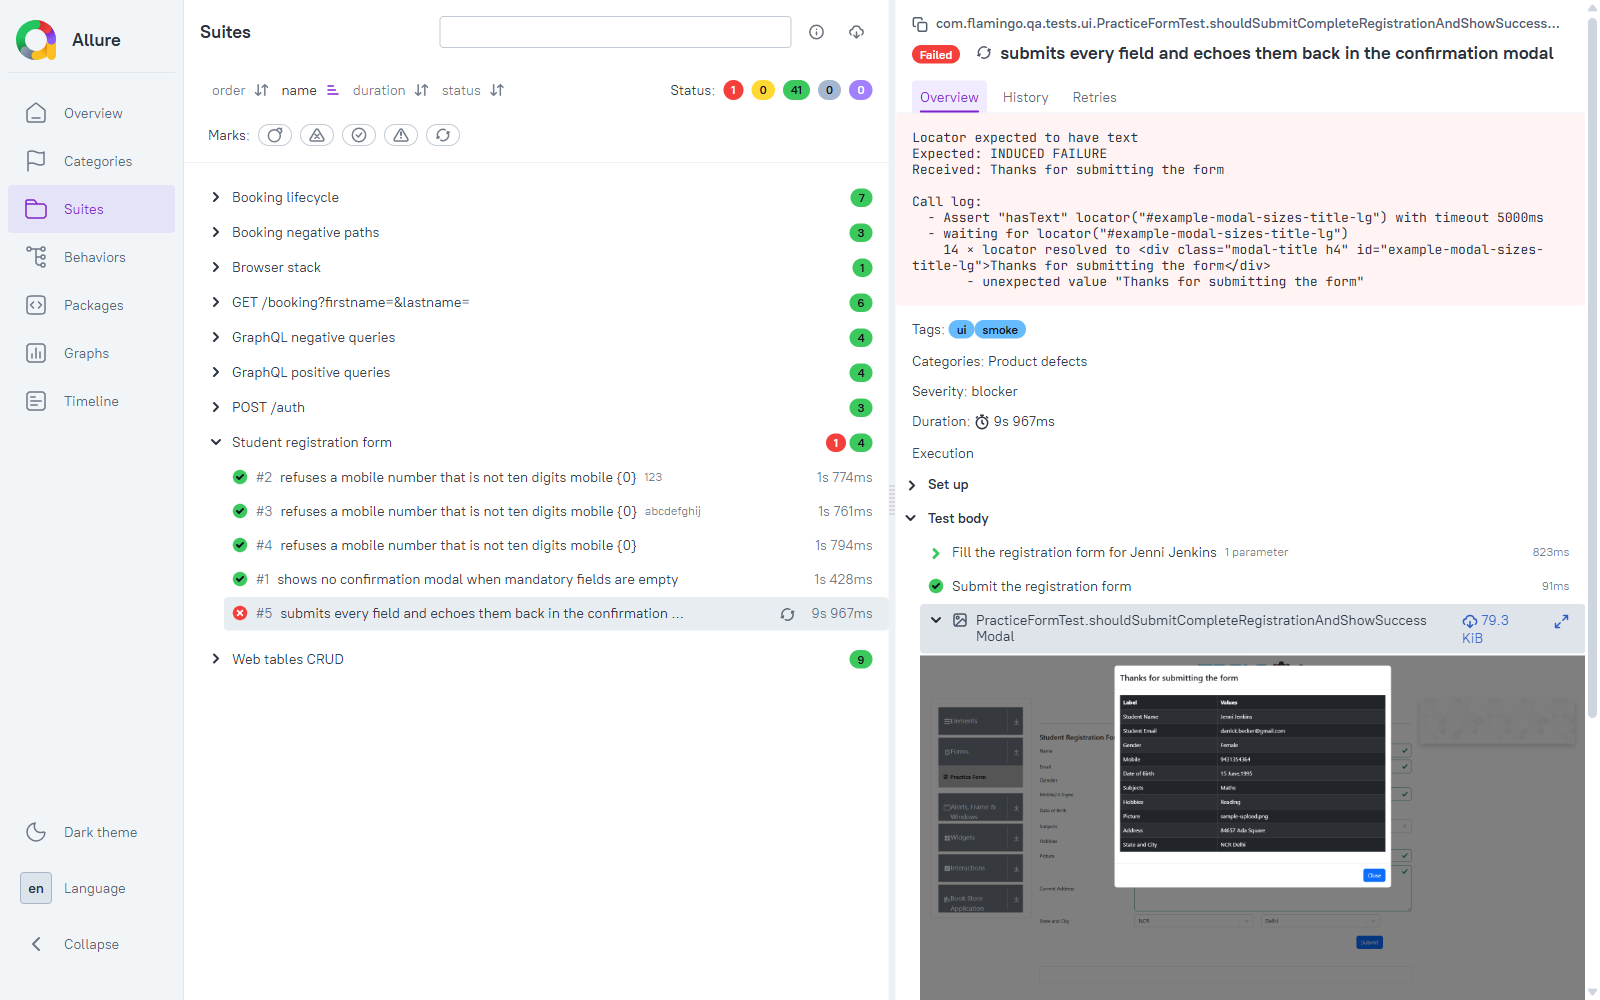
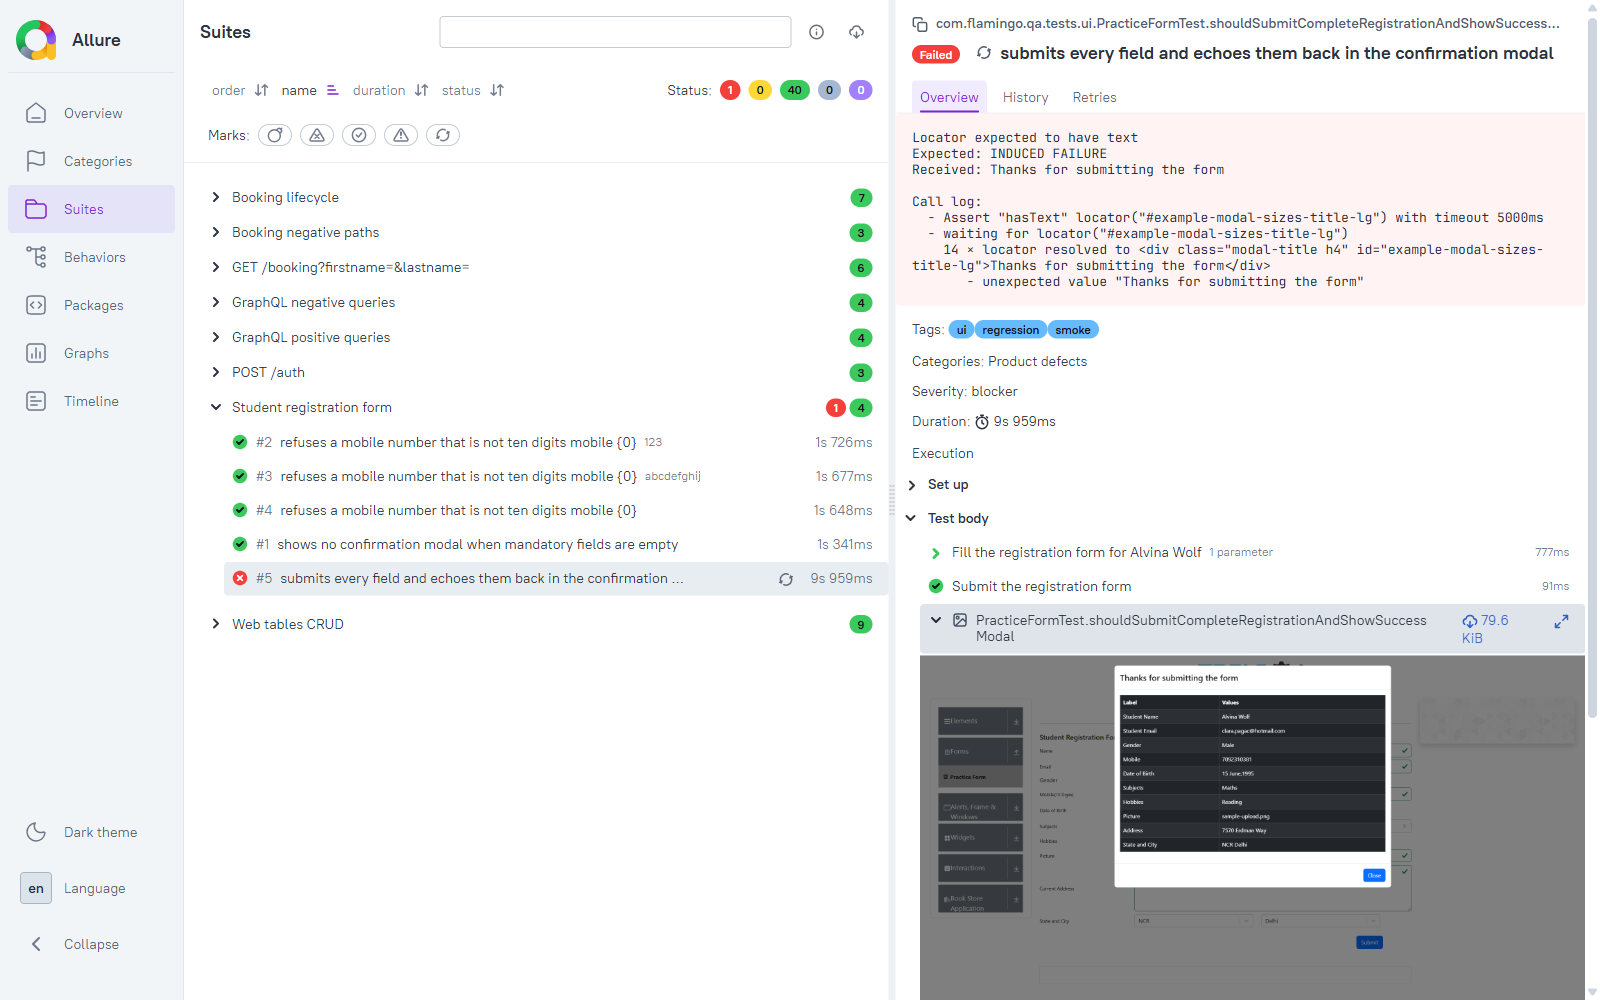
test(ui): drop the redundant UI framework smoke test
UiFrameworkSmokeTest was the Phase 6 seed: it proved the browser stack
reached DemoQA and rendered the form back when no real UI test existed
to prove it. PracticeFormTest now navigates to that same page in its
@BeforeEach and asserts against its fields in every test, so the smoke
test asserted nothing the suite did not already cover, on a page it was
already loading.

PracticeFormPage#heading went with it — the smoke test was its only
caller, and a locator kept for nobody is the same dead weight.

Counts move accordingly: 41 tests total, ui 14, smoke 8, and
"smoke | graphql" 14. api 27, graphql 8 and "regression & !ui" 27 are
unchanged. README and plan §3.9/§9/§10 updated to match, all re-measured
rather than adjusted by arithmetic.

The three report screenshots were regenerated: they showed 42 cases and
a "Browser stack" suite that no longer exists, and would have
contradicted the README. The failure capture now also shows the
regression tag on the test.

diff --git a/src/main/java/com/flamingo/qa/ui/pages/PracticeFormPage.java b/src/main/java/com/flamingo/qa/ui/pages/PracticeFormPage.java
@@ -19,7 +19,6 @@ public class PracticeFormPage extends BasePage {
     private static final DateTimeFormatter MONTH = DateTimeFormatter.ofPattern("MMMM", Locale.ENGLISH);
     private static final Locator.GetByTextOptions EXACT = new Locator.GetByTextOptions().setExact(true);
 
-    private final Locator heading = page.getByText("Student Registration Form");
     private final Locator userForm = page.locator("#userForm");
     private final Locator invalidFields = page.locator("#userForm input:invalid");
     private final Locator firstName = page.locator("#firstName");

diff --git a/IMPLEMENTATION_PLAN.md b/IMPLEMENTATION_PLAN.md
@@ -13,14 +13,14 @@
 >
 > **Phases 0–9 are COMPLETE**, on the `spribe_api_test` / `avenga-api-test` architecture
 > (§3.2). API work is done (19 REST + 8 GraphQL, against minimums of 3 and 5) and the UI
-> suite is in: `-Dgroups=ui` → **15 green headless and headed**, covering the practice form
+> suite is in: `-Dgroups=ui` → **14 green headless and headed**, covering the practice form
 > (date picker, subjects autocomplete, file upload, React-Select state→city cascade, modal
 > verified with `SoftAssertions`) and web-tables CRUD-over-a-grid. DemoQA has been rewritten
 > since the plan was drafted — see **§11.1i** before touching any UI locator.
 >
 > **No git remote is configured and nothing has been pushed yet.**
 >
-> **All nine phases are done.** `mvn clean test` → **42 green in ~28 s** at `parallelism = 4`;
+> **All nine phases are done.** `mvn clean test` → **41 green in ~28 s** at `parallelism = 4`;
 > `mvn allure:report` renders with request/response, screenshot and trace attachments; README
 > and `.github/workflows/ci.yml` are written; §7 traceability is fully ticked.
 >
@@ -315,17 +315,17 @@ too — matching the brief's own framing of GraphQL as Part 1 API testing.
 
 | Tag | Tests | Declared on |
 |---|---|---|
-| `regression` | 42 | `BaseApiTest` + `BaseUiTest` |
+| `regression` | 41 | `BaseApiTest` + `BaseUiTest` |
 | `api` | 27 | `BaseApiTest` |
 | `graphql` | 8 | `BaseGraphQlTest` |
-| `ui` | 15 | `BaseUiTest` |
-| `smoke` | 9 | individual methods |
+| `ui` | 14 | `BaseUiTest` |
+| `smoke` | 8 | individual methods |
 
 `regression` is declared on the two roots of the hierarchy, **not** repeated per class. JUnit
 inherits `@Tag` from superclasses, so a new test class is in the regression suite by construction
 rather than by someone remembering to tag it — which is the only way a "run everything" tag stays
 truthful as the suite grows. *(Added 2026-09-21 at Vladimir's request.)* It currently selects the
-same 42 tests as an unfiltered `mvn test`; its value is being the **stable name** for the full
+same 41 tests as an unfiltered `mvn test`; its value is being the **stable name** for the full
 suite once tags that should not run by default exist (`flaky`, `slow`, `wip`), at which point CI
 becomes `-Dgroups="regression & !wip"` and the default run stays honest.
 
@@ -562,7 +562,7 @@ development process" is satisfied structurally, not retroactively. ~8.5 h.
 | **4** ✅ | GraphQL client + positive (1–4) | ✅ 4 tests green; variables passed as a map; queries in `.graphql` files | 1.0 h | `test(graphql): add graphql client and positive query coverage` |
 | **5** ✅ | GraphQL negative (5–8) | ✅ 8 GraphQL tests green against the **measured** contracts in §11.2, two of which the Phase 5 re-probe corrected | 0.5 h | `test(graphql): assert error contracts for invalid queries` |
 | **6** ✅ | UI framework | ✅ all of it, plus screenshot **and** trace proved on an induced failure — a phase early | 1.0 h | `feat(ui): add playwright page-object framework with failure capture` |
-| **7** ✅ | UI tests (1–9) | ✅ 15 UI executions (9 methods + params, plus the Phase 6 smoke) green headless **and** headed; zero `Thread.sleep` in UI code; 81 KB screenshot + 2.1 MB trace re-proved on an induced failure | 2.0 h | `test(ui): cover practice form and web tables via page objects` |
+| **7** ✅ | UI tests (1–9) | ✅ 14 UI executions (9 methods + parameterised cases) green headless **and** headed; zero `Thread.sleep` in UI code; 81 KB screenshot + 2.1 MB trace re-proved on an induced failure | 2.0 h | `test(ui): cover practice form and web tables via page objects` |
 | **8** ✅ | Reporting + parallelism | ✅ report renders 116 request/response, 1 screenshot and 1 trace attachment; 3 consecutive parallel runs green at 29.6 / 28.8 / 27.3 s against 83.4 s sequential | 0.5 h | `ci: enable allure reporting and parallel execution` |
 | **9** ✅ | CI + documentation | ✅ workflow written (3 jobs, no secrets); README complete against the brief's template; §7 traceability fully ticked; 3 report screenshots captured. **Actions cannot be verified green until a remote exists** | 0.5 h | `docs: add readme, ci workflow and execution report` |
 
@@ -598,9 +598,9 @@ Follow the brief's template verbatim, with substantive free text:
 
 ## 10. Definition of done
 
-- [x] `mvn clean test` green from a **cold clone**, JDK + Maven only, **no secrets, no setup** — 42/42
-- [x] `mvn test -Dgroups="api"` → 27 and `-Dgroups="ui"` → 15, each the correct subset
-- [x] ≥10 REST · ≥8 GraphQL · ≥9 UI, all meaningfully asserting — 19 · 8 · 15, and the one
+- [x] `mvn clean test` green from a **cold clone**, JDK + Maven only, **no secrets, no setup** — 41/41
+- [x] `mvn test -Dgroups="api"` → 27 and `-Dgroups="ui"` → 14, each the correct subset
+- [x] ≥10 REST · ≥8 GraphQL · ≥9 UI, all meaningfully asserting — 19 · 8 · 14, and the one
       vacuous assertion found in review was replaced (§11.1i)
 - [x] Every assertion via AssertJ; multi-field checks use `SoftAssertions`
 - [x] Zero `Thread.sleep` in UI code, zero hardcoded URLs/credentials, zero committed secrets

diff --git a/README.md b/README.md
@@ -1,7 +1,7 @@
 # QA Automation Test Suite
 
 API (REST + GraphQL) and UI test suite for the Flamingo home assignment.
-**42 tests — 19 REST, 8 GraphQL, 15 UI — green from a cold clone with no setup and no secrets.**
+**41 tests — 19 REST, 8 GraphQL, 14 UI — green from a cold clone with no setup and no secrets.**
 
 | | |
 |---|---|
@@ -46,14 +46,14 @@ mvn clean test
 # Run only API tests  (REST + GraphQL = 27)
 mvn test -Dgroups="api"
 
-# Run only UI tests   (15)
+# Run only UI tests   (14)
 mvn test -Dgroups="ui"
 ```
 
 Useful variations:
 
 ```bash
-mvn test -Dgroups="regression"    # the full suite by tag — every test (42)
+mvn test -Dgroups="regression"    # the full suite by tag — every test (41)
 mvn test -Dgroups="graphql"       # GraphQL only — these carry both `graphql` and `api` tags
 mvn test -Dgroups="smoke"         # the critical path across all three layers
 mvn test -Dui.headless=false      # watch the UI suite drive a real browser
@@ -64,11 +64,11 @@ mvn allure:serve                  # open the Allure report (downloads the render
 
 | Tag | Tests | Selects |
 |---|---|---|
-| `regression` | 42 | **Every test.** The full suite, addressed by tag rather than by absence of a filter |
+| `regression` | 41 | **Every test.** The full suite, addressed by tag rather than by absence of a filter |
 | `api` | 27 | Everything that talks HTTP — REST **and** GraphQL |
 | `graphql` | 8 | The GraphQL subset only |
-| `ui` | 15 | The Playwright suite |
-| `smoke` | 9 | The critical path across all three layers |
+| `ui` | 14 | The Playwright suite |
+| `smoke` | 8 | The critical path across all three layers |
 
 Tags combine with JUnit's expression syntax, so the axes compose:
 
@@ -88,7 +88,7 @@ Two design points worth naming:
   GraphQL tests carry both — matching the brief's own framing of GraphQL as part of API testing.
   `-Dgroups="api"` therefore runs all 27, and `-Dgroups="graphql"` narrows to 8.
 
-`regression` and an unfiltered `mvn test` currently select the same 42 tests. The tag still earns
+`regression` and an unfiltered `mvn test` currently select the same 41 tests. The tag still earns
 its place: it is the stable name for "the full suite" once tags that should *not* run by default
 exist — `flaky`, `slow`, or a `wip` tag excluded via `-Dgroups="regression & !wip"`.
 
@@ -265,7 +265,7 @@ test that cannot fail is worse than no test.
 
 | | |
 |---|---|
-| [`allure-overview.png`](docs/report-screenshots/allure-overview.png) | 42 tests, 100% passed, with the effective configuration in the Environment widget |
+| [`allure-overview.png`](docs/report-screenshots/allure-overview.png) | 41 tests, 100% passed, with the effective configuration in the Environment widget |
 | [`allure-test-detail.png`](docs/report-screenshots/allure-test-detail.png) | `@Step` nesting, parameters, and the full request body / headers / curl attached to a booking test |
 | [`allure-failure-capture.png`](docs/report-screenshots/allure-failure-capture.png) | an **induced** failure, with the full-page screenshot and the Playwright trace attached |
 
